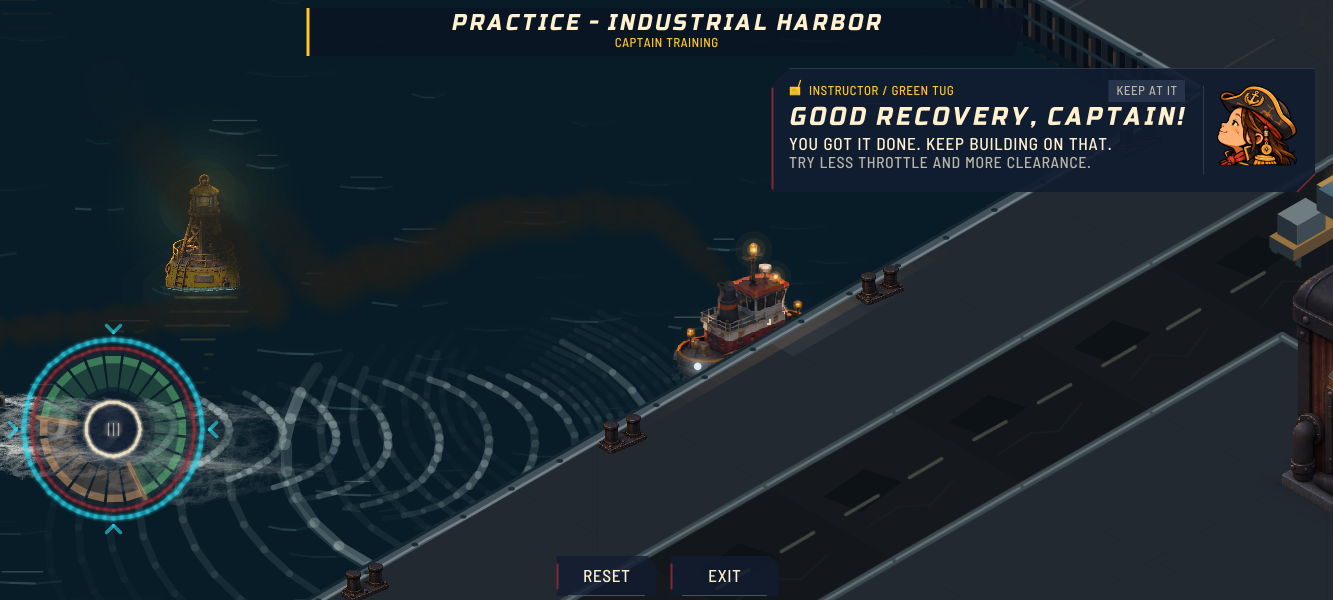
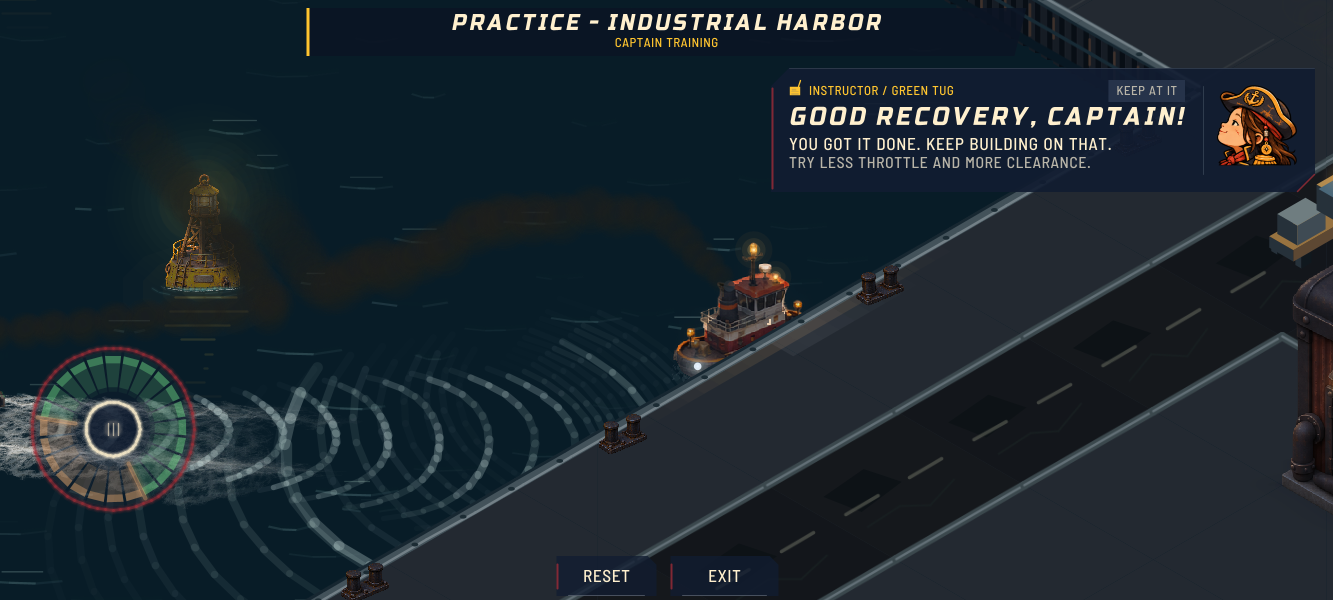
Remove blue tutorial guidance ring from throttle

diff --git a/core/com/bargeboss/game/TutorialView.java b/core/com/bargeboss/game/TutorialView.java
@@ -129,7 +129,7 @@ public final class TutorialView {
             if(t.helm.phase==HelmPractice.RENDEZVOUS){
                 SoftCue.target(g,river,HelmPractice.MEET_X,HelmPractice.MEET_Y,HelmPractice.MEET_RADIUS+pulse,1,0xdd28e7ff,2);
                 driveArrow(g,river,HelmPractice.MEET_X,HelmPractice.MEET_Y,null);
-            }else SoftCue.target(g,p,Joystick.centerX(g),Joystick.centerY(g),Joystick.RADIUS+9+pulse,1,SoftCue.animated(g,0xdd28e7ff),2);
+            }
         } else if(t.lesson==Tutorial.FIGURE_EIGHT || t.lesson==Tutorial.REVERSE) {
             for(int i=0;i<2;i++)SoftCue.target(g,river,Tutorial.DRIVE_X[i],Tutorial.DRIVE_Y[i],Tutorial.DRIVE_RADIUS,1,0x3395d7d1,1);
             int buoy=Math.min(t.driveMarker,Tutorial.DRIVE_X.length-1);

diff --git a/tests/com/bargeboss/game/CoreTest.java b/tests/com/bargeboss/game/CoreTest.java
@@ -184,7 +184,7 @@ public final class CoreTest {
         PersistentBargeTest.run();
         PhysicalBerthsTest.run();
         // Title-derived UI palette/geometry; reviewed draw-only changes, simulation/input unchanged.
-        check(Parity.signature().equals("8b9482b:2:1350"),"canonical replay changed; review parity before updating baseline: "+Parity.signature());
+        check(Parity.signature().equals("87857f4b:2:1350"),"canonical replay changed; review parity before updating baseline: "+Parity.signature());
         System.out.println(assertions+" assertions passed; bounded player delivered "+g.delivered+", score "+g.score+", hull "+g.hull);
         System.out.println("Replay signature: "+Parity.signature());
     }

diff --git a/optimization.md b/optimization.md
@@ -4910,3 +4910,11 @@ bold strokes, full tutorial replay,924416 chart pixels and native Vulkan clips.
 Installed and cold launched Status:ok; restored display timeout. Desktop previews
 in Downloads/Photos verified as MediaStore17985/17987/17989. No native pixel capture/
 frame-time profile or iOS build this round.
+
+## 2026-11-21 — remove throttle guidance halo
+Removed the tutorial-only cyan target ring/chevrons surrounding the throttle.
+Throttle sectors, puck, input and world target cues remain. Reviewed shared
+1333px gameplay preview. Visual-only canonical trace87857f4b:2:1350.
+Full checks/Android build passed(out/throttle-ring-build.log). Installed and
+launch reported Status:ok; restored timeout. Updated preview saved in Downloads/
+Photos, MediaStore18071 verified. No iOS build or native pixel capture this round.
